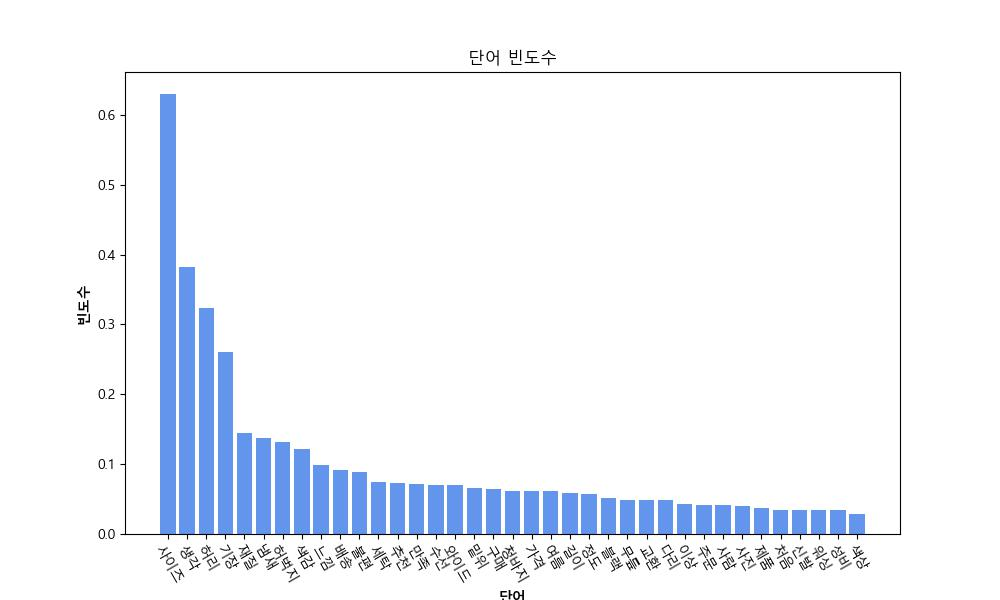
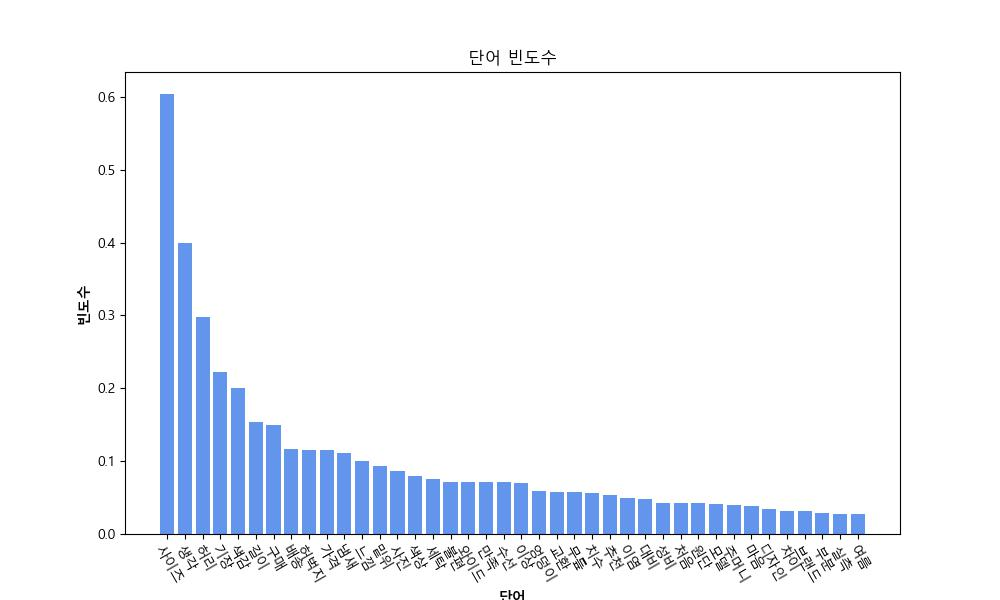
update

diff --git a/Log/log_graph.py b/Log/log_graph.py
@@ -1,0 +1,71 @@
+import matplotlib.pyplot as plt
+
+# 로그 파일 경로
+log_file_path = '../train.csv'
+
+plt.rcParams['font.family'] = 'Malgun Gothic'
+plt.rcParams['axes.unicode_minus'] = False
+
+# epoch, 학습 정확도, 검증 정확도, 학습 손실을 저장할 리스트
+epochs = []
+train_accuracies = []
+val_accuracies = []
+train_losses = []
+
+# 로그 파일 읽기
+with open(log_file_path, 'r', encoding='utf-8') as file:
+    for line in file:
+        if 'Epoch' in line:
+            # epoch 추출
+            epoch = int(line.split()[1])  # 'Epoch 1 of 4'에서 1을 추출
+            epochs.append(epoch)
+        elif '학습 정확도' in line:
+            # 학습 정확도 추출
+            train_accuracy = float(line.split(':')[1].strip())
+            train_accuracies.append(train_accuracy)
+        elif '검증 정확도' in line:
+            # 검증 정확도 추출
+            val_accuracy = float(line.split(':')[1].strip())
+            val_accuracies.append(val_accuracy)
+        elif '평균 학습 오차' in line:
+            # 학습 손실 추출
+            train_loss = float(line.split(':')[1].strip())
+            train_losses.append(train_loss)
+
+plt.figure(figsize=(10, 6))
+
+plt.plot(epochs, train_accuracies, marker='o', color='b', label='학습 Accuracy')
+plt.plot(epochs, val_accuracies, marker='o', color='g', label='검증 Accuracy')
+
+for i in range(len(epochs)):
+    plt.text(epochs[i], train_accuracies[i], f'{train_accuracies[i]:.2f}',
+             ha='center', va='bottom', fontsize=10)
+    plt.text(epochs[i], val_accuracies[i], f'{val_accuracies[i]:.2f}',
+             ha='center', va='bottom', fontsize=10)
+
+plt.title('Epoch별 Accuracy')
+plt.xlabel('Epoch')
+plt.ylabel('정확도')
+plt.ylim(0, 1)
+plt.xticks(epochs)
+plt.grid()
+plt.legend()
+plt.savefig('train_val_accuracy.jpg')  # 그래프 저장
+plt.show()
+
+plt.figure(figsize=(10, 6))
+
+plt.plot(epochs, train_losses, marker='o', color='r', label='Train Loss')
+
+for i in range(len(epochs)):
+    plt.text(epochs[i], train_losses[i], f'{train_losses[i]:.2f}',
+             ha='center', va='bottom', fontsize=10)
+
+plt.title('Epoch별 loss')
+plt.xlabel('Epoch')
+plt.ylabel('loss')
+plt.ylim(0, max(train_losses) * 1.1)  # 손실의 최대값에 약간 여유를 두기
+plt.xticks(epochs)
+plt.grid()
+plt.savefig('train_loss.jpg')
+plt.show()

diff --git a/Graph/brand_graph.py b/Graph/brand_graph.py
@@ -1,0 +1,54 @@
+import matplotlib.pyplot as plt
+import pandas as pd
+import numpy as np
+
+bold = {'weight': 'bold'}
+
+data_path = '../Data/ALL_data.csv'
+dataset = pd.read_csv(data_path).dropna(axis=0)
+
+# 브랜드 별 리뷰 개수 세기
+brands = dataset['브랜드'].unique()
+
+plt.rcParams['font.family'] = 'Malgun Gothic'
+plt.rcParams['axes.unicode_minus'] = False
+
+# 서브플롯 설정 (2행 3열)
+num_brands = len(brands)
+rows = 2
+cols = 3
+fig, axes = plt.subplots(nrows=rows, ncols=cols, figsize=(5 * cols, 5 * rows))
+
+# 브랜드 수에 따른 서브플롯 조정
+axes = axes.flatten()
+for i in range(num_brands):
+    ax = axes[i]
+    brand = brands[i]
+
+    brand_data = dataset[dataset['브랜드'] == brand]
+
+    # 1~3점 부정, 4~5점 긍정
+    negative_count = brand_data[(brand_data['별점'] >= 1) & (brand_data['별점'] <= 3)].shape[0]
+    positive_count = brand_data[(brand_data['별점'] >= 4) & (brand_data['별점'] <= 5)].shape[0]
+
+    # 그래프 그리기
+    ax.bar(['부정', '긍정'], [negative_count, positive_count], color=['#FF6347', '#6495ED'])
+
+    # 각 막대 위에 값 표시하기
+    for j, count in enumerate([negative_count, positive_count]):
+        ax.text(j, count, str(count), ha='center', va='bottom', size=12)
+
+    ax.set_title(f'{brand} 브랜드 리뷰 분포', fontdict=bold)
+    ax.set_xlabel('리뷰 유형', fontdict=bold)
+    ax.set_ylabel('리뷰 개수', fontdict=bold)
+
+# 마지막 서브플롯을 빈 그래프로 설정
+if num_brands < rows * cols:
+    axes[num_brands].axis('off')  # 축 끄기
+
+# 레이아웃 조정
+plt.tight_layout()
+
+# 이미지 저장
+plt.savefig('ALL_brands_review_Pos_Neg.jpg')
+plt.show()

diff --git a/extract_noun.py b/extract_noun.py
@@ -6,7 +6,7 @@ from collections import defaultdict  # defaultdict를 사용하여 빈도수 합
 import matplotlib.pyplot as plt
 import numpy as np
 
-stop_word_list = ['모드나인','토피','페이탈리즘','브랜디드','무신사스탠다드', '바지']
+stop_word_list = ['모드나인','토피','페이탈리즘','브랜디드','무신사스탠다드', '바지', '청바지', '사람', '페이탈', '신발', '제품', '상품']
 
 def extract_noun(text):
     t = MeCab.Tagger()

diff --git a/other/profe_code.py b/other/profe_code.py
@@ -1,4 +1,3 @@
-import csv
 from selenium import webdriver
 from selenium.webdriver.common.by import By
 from selenium.webdriver.chrome.service import Service

diff --git a/other/profe_code_copy.py b/other/profe_code_copy.py
@@ -1,4 +1,3 @@
-import csv
 from selenium import webdriver
 from selenium.webdriver.common.by import By
 from selenium.webdriver.chrome.service import Service

diff --git a/other/real.py b/other/real.py
@@ -1,4 +1,3 @@
-import csv
 from selenium import webdriver
 from selenium.webdriver.common.by import By
 from selenium.webdriver.chrome.service import Service

diff --git a/other/test_txt.py b/other/test_txt.py
@@ -1,4 +1,3 @@
-import csv
 from itertools import count
 
 from selenium import webdriver

diff --git a/other/txt_crawling.py b/other/txt_crawling.py
@@ -1,4 +1,3 @@
-import csv
 import os
 import random
 import pandas as pd

diff --git a/other/txt_crawling_V2.py b/other/txt_crawling_V2.py
@@ -1,4 +1,3 @@
-import csv
 import os
 import random
 import pandas as pd

diff --git a/other/txt_crawling_V3.py b/other/txt_crawling_V3.py
@@ -1,4 +1,3 @@
-import csv
 import os
 import random
 import pandas as pd

diff --git a/other/txt_crawling_V4.py b/other/txt_crawling_V4.py
@@ -1,4 +1,3 @@
-import csv
 import os
 import random
 import pandas as pd

diff --git a/other/txt_crawling_V5.py b/other/txt_crawling_V5.py
@@ -1,4 +1,3 @@
-import csv
 import os
 import random
 import pandas as pd
